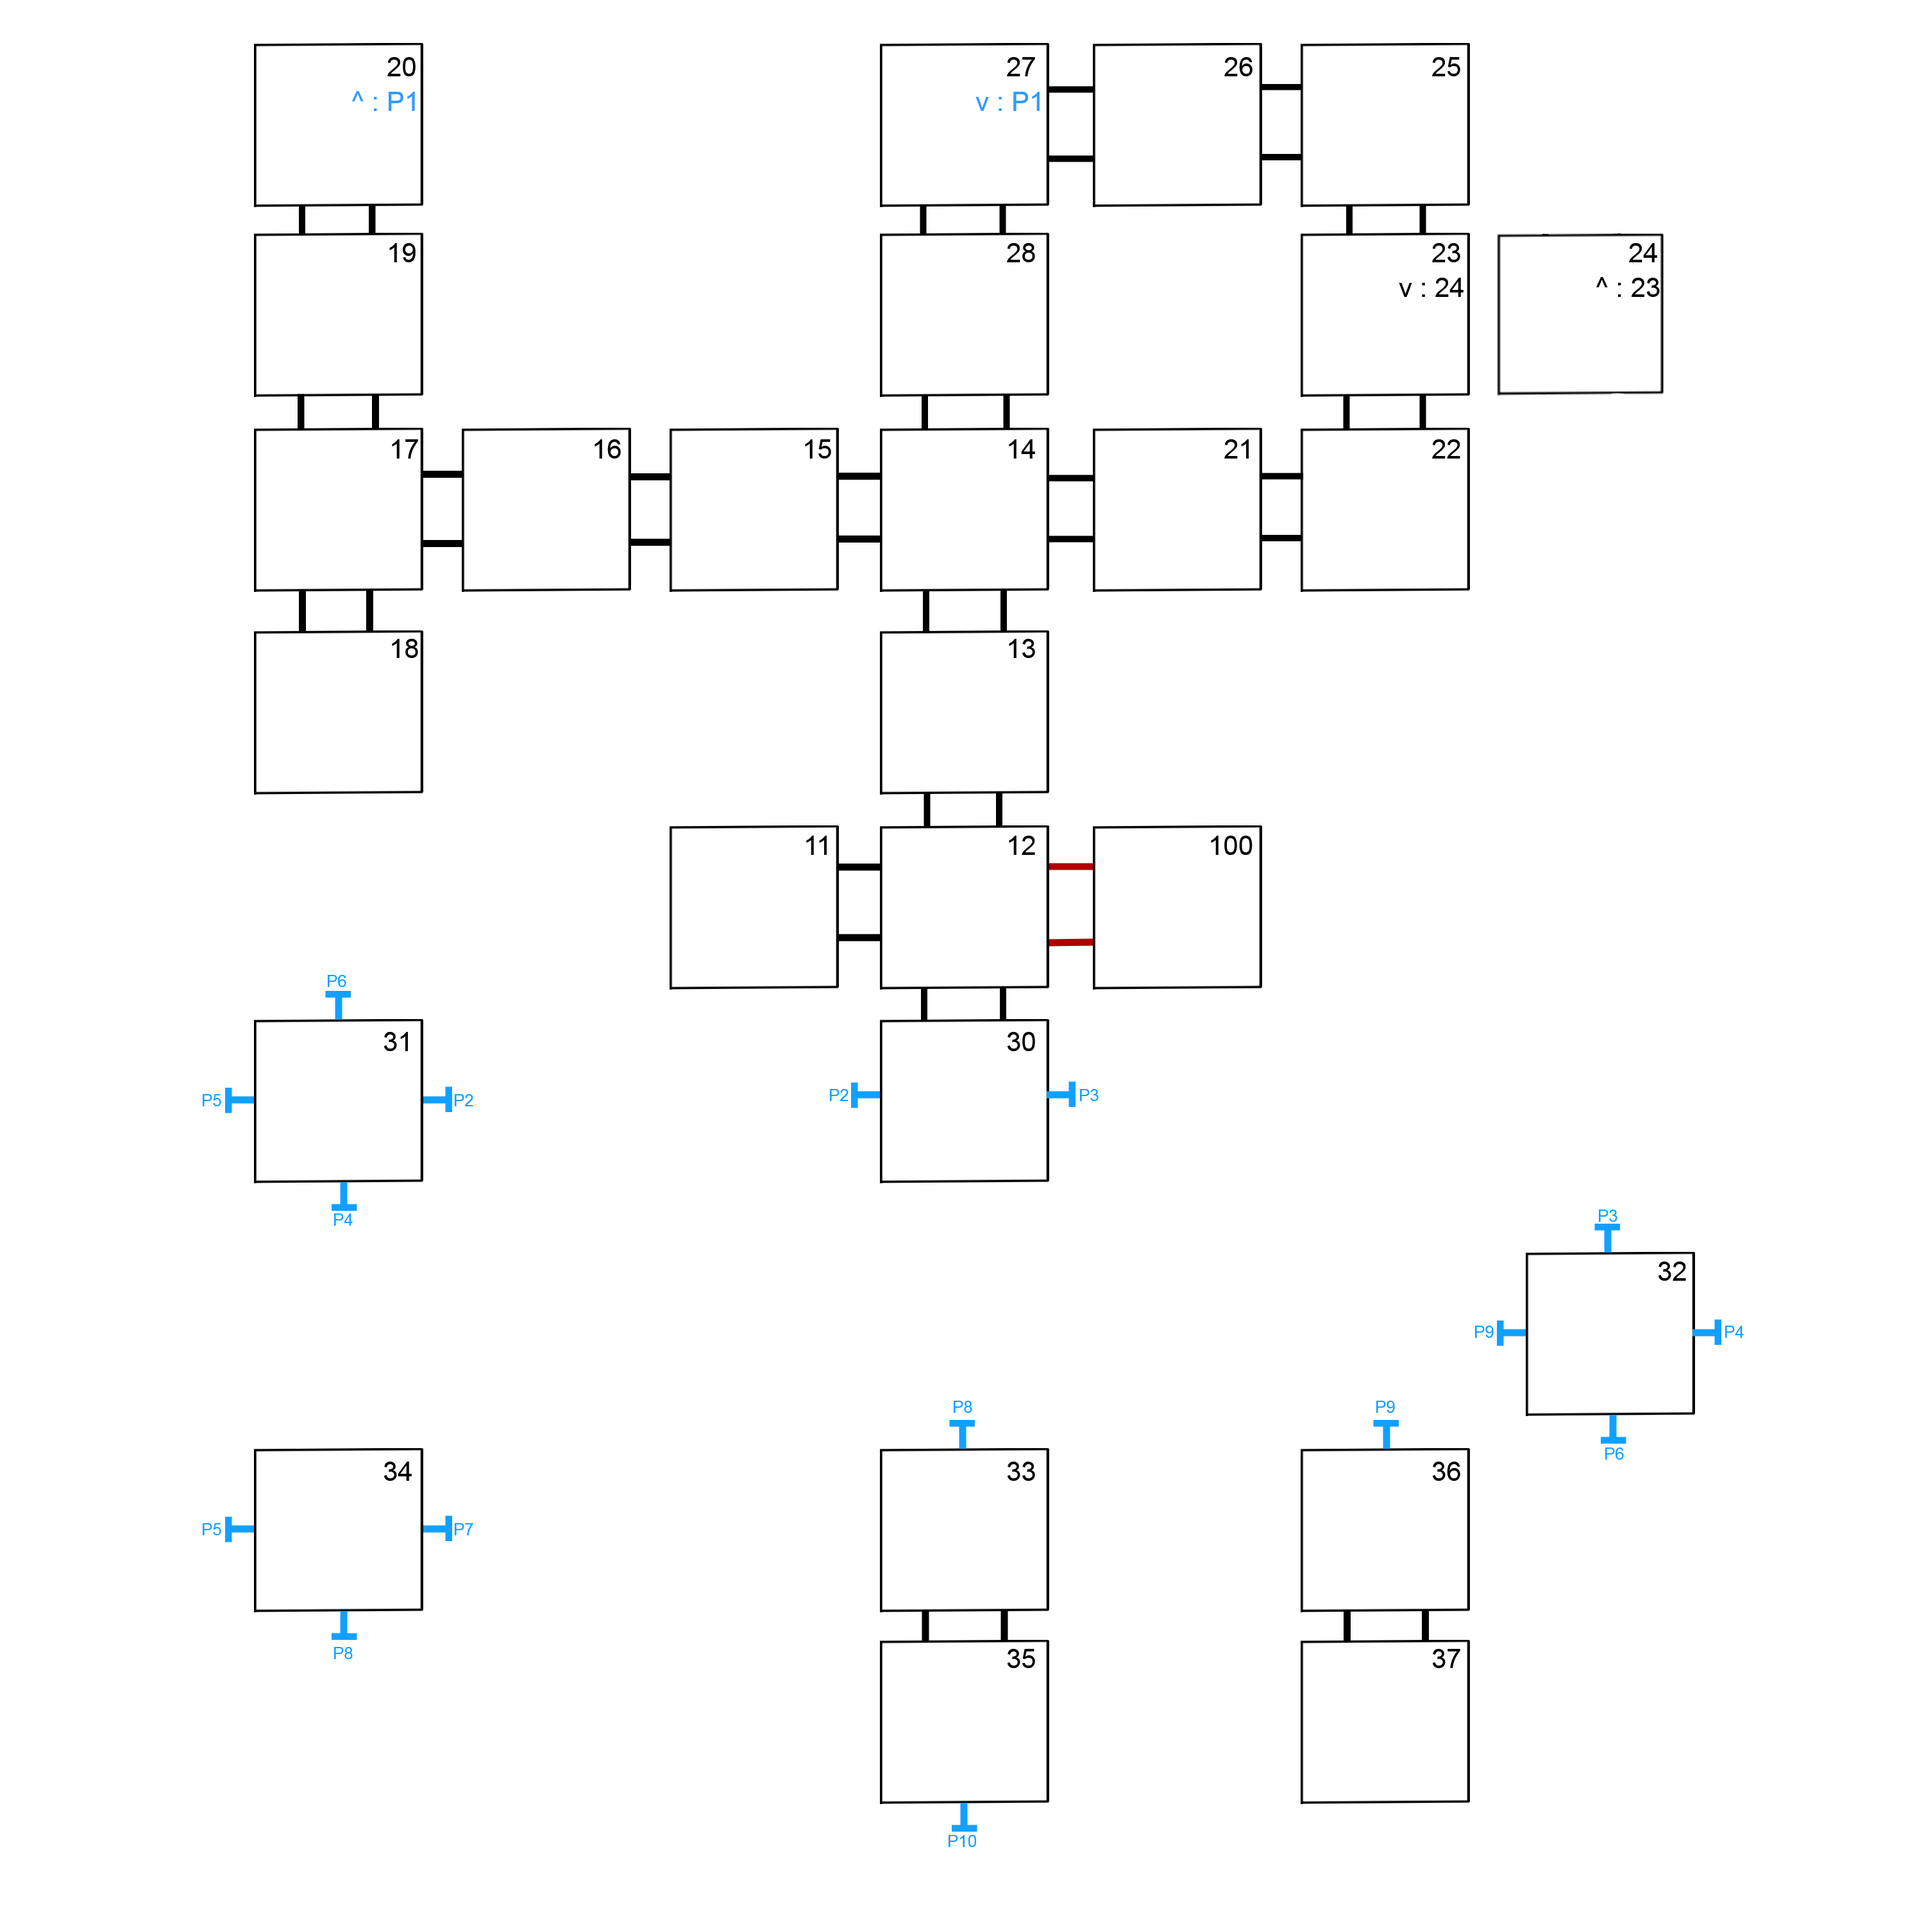
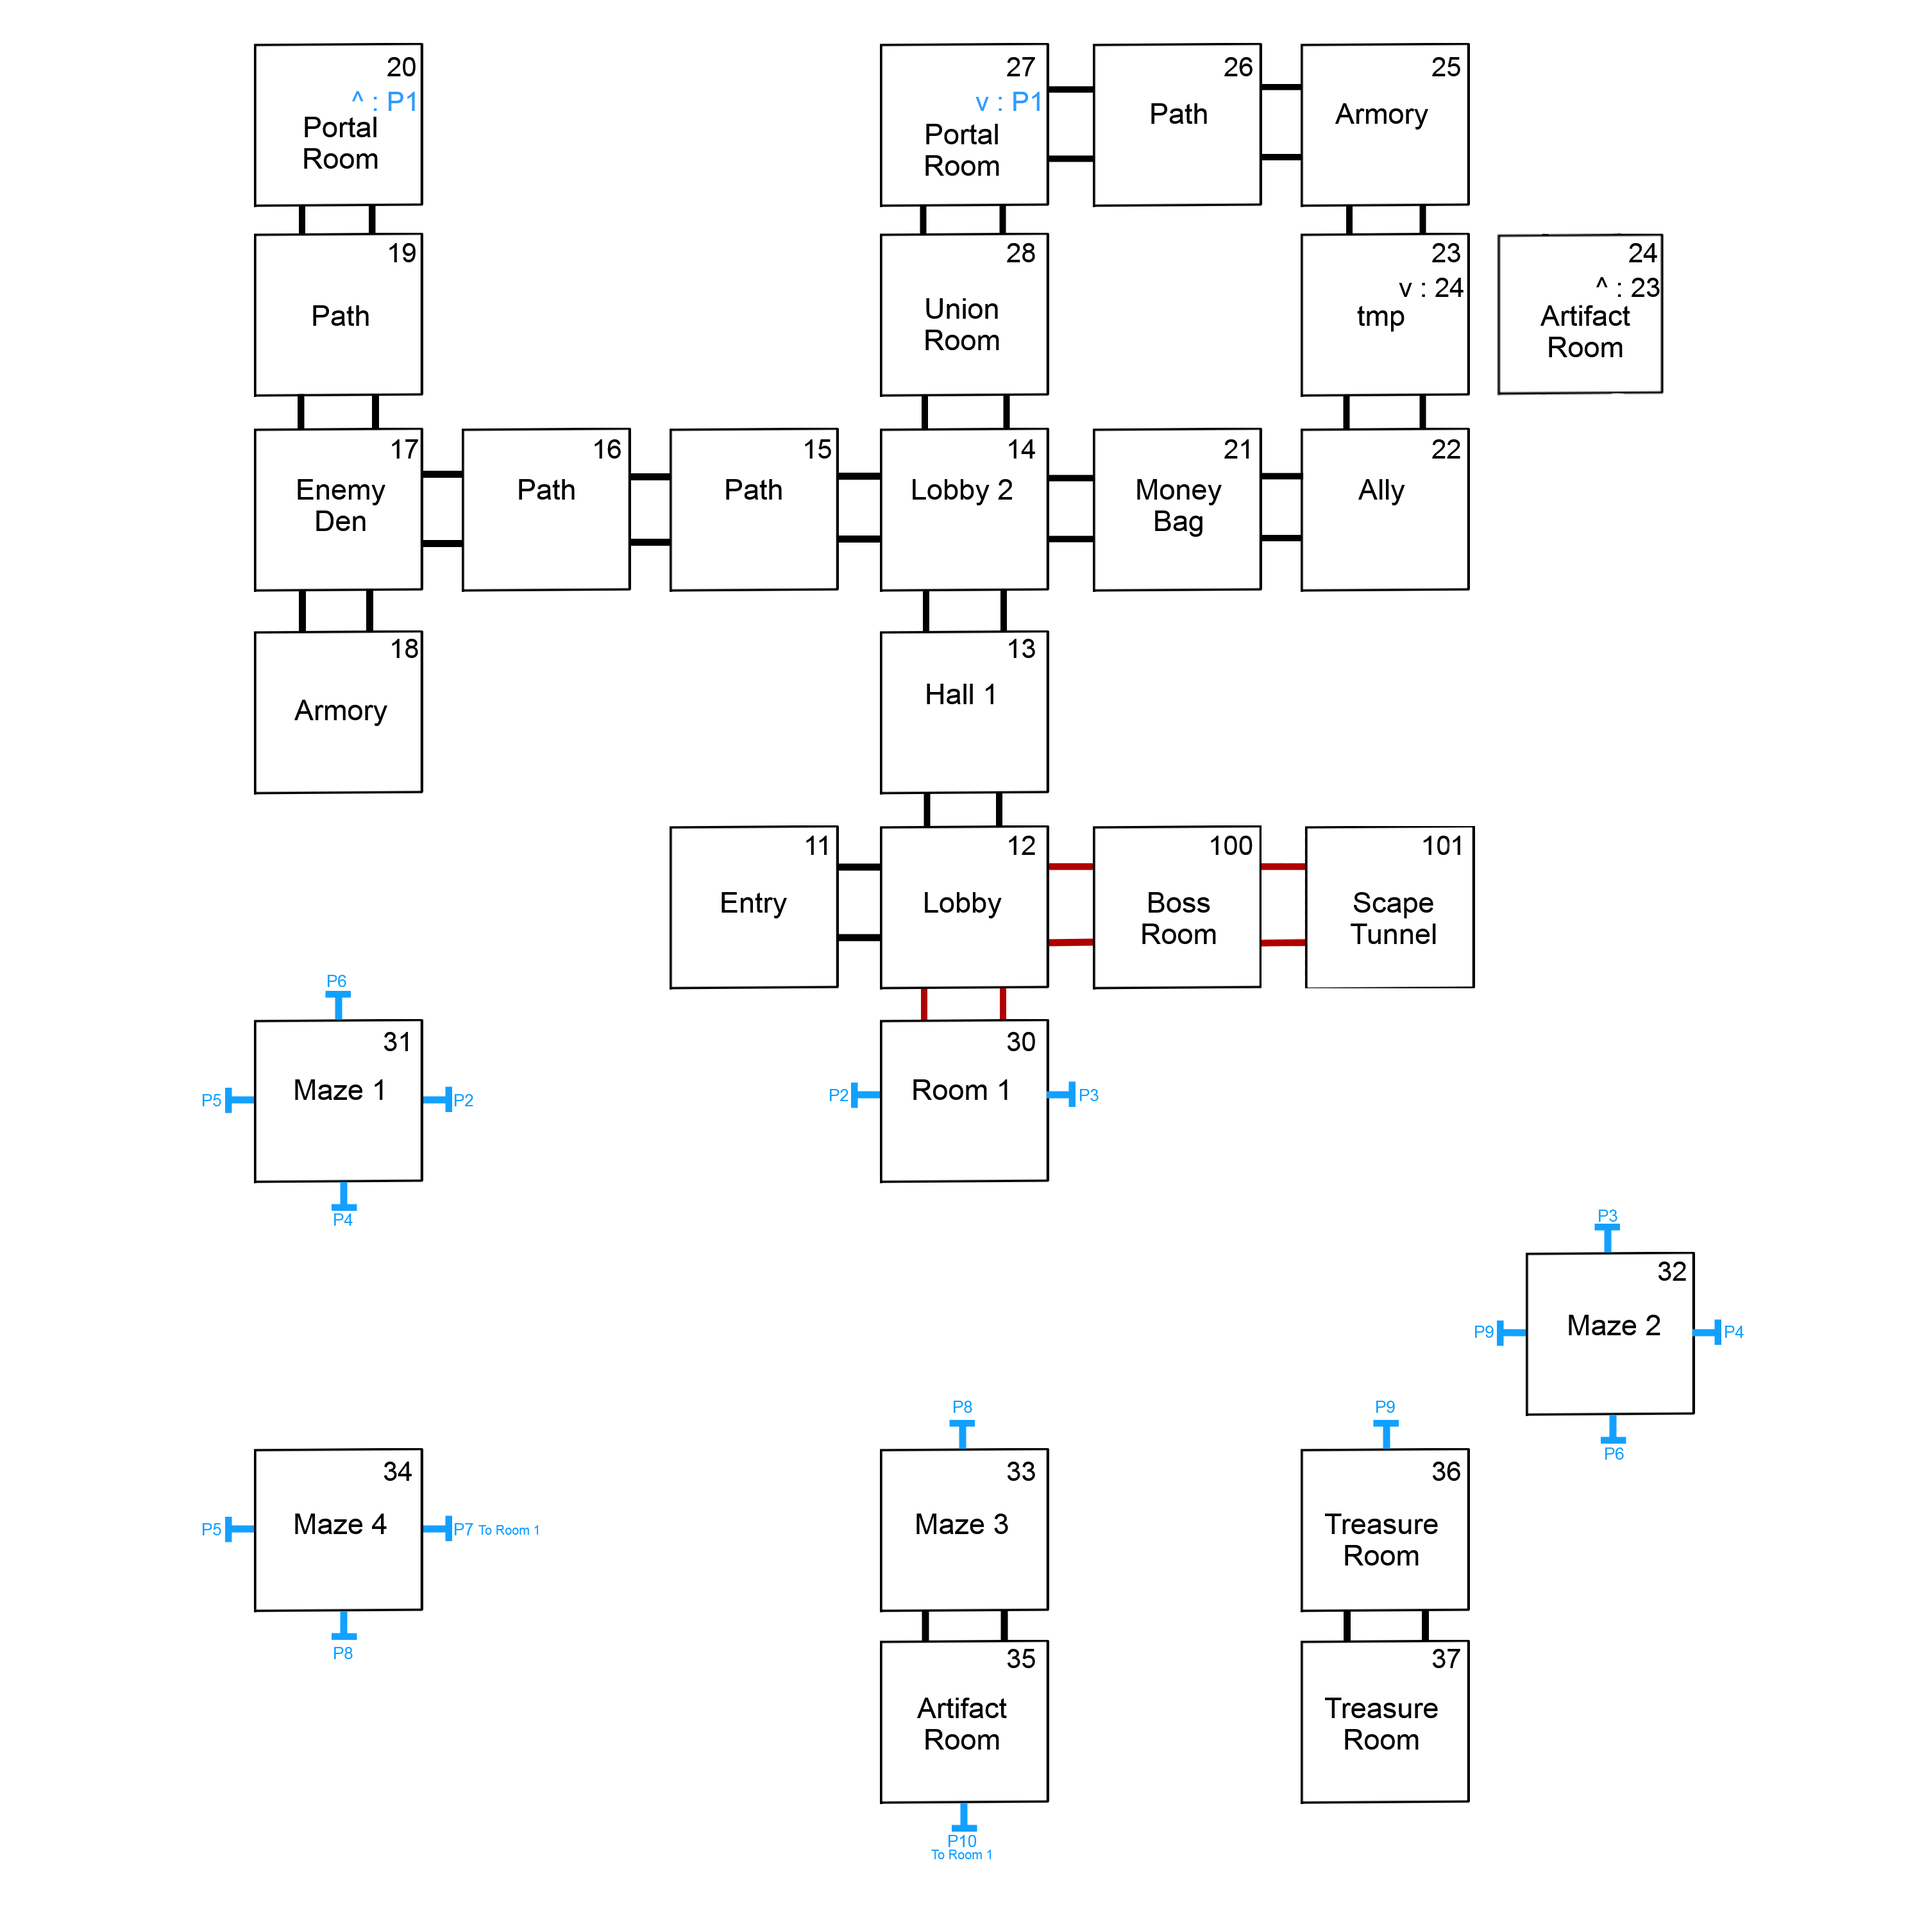
aaa

diff --git a/src/event_actions.c b/src/event_actions.c
@@ -613,7 +613,7 @@ bool event_trigger_players_turn(Event *event, Game *game){
     if(game_get_state(game) != DEFAULT) return false;
     if(!event_is_cmd_valid(event, game_get_last_command(game))) return false;
 
-    if(player_turn == -1) player_turn = atoi(event_get_aux_data(event));
+    if(player_turn == -1 || game_has_request_switch(game)) player_turn = atoi(event_get_aux_data(event));
     player_turn--;
     if(player_turn == 0){
         player_turn = atoi(event_get_aux_data(event));
